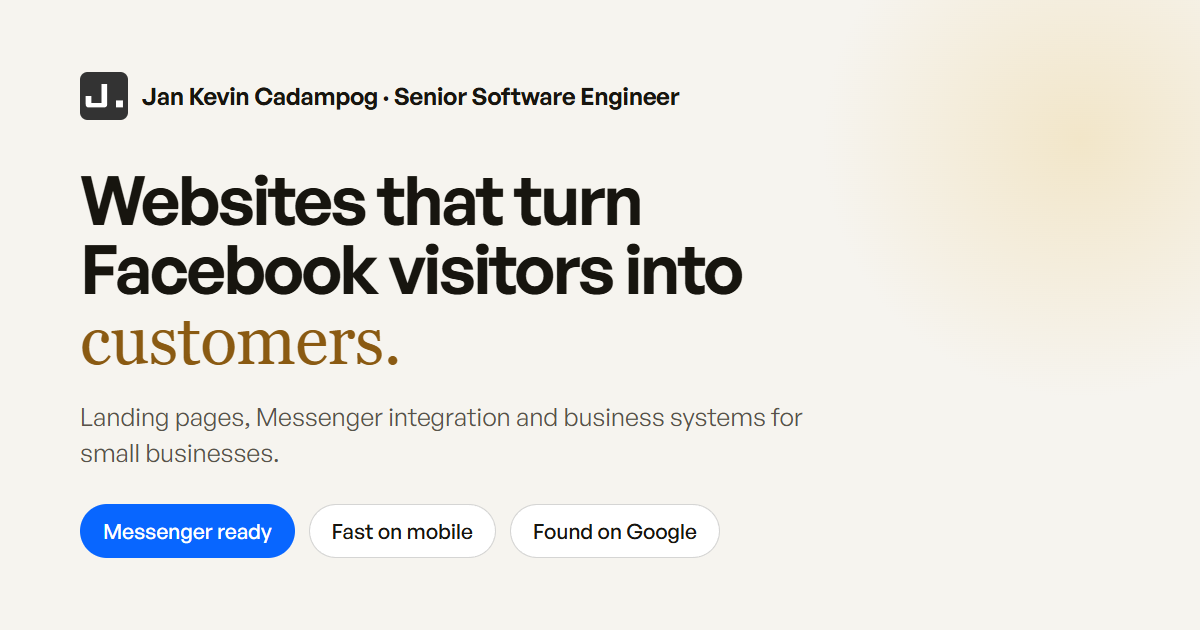
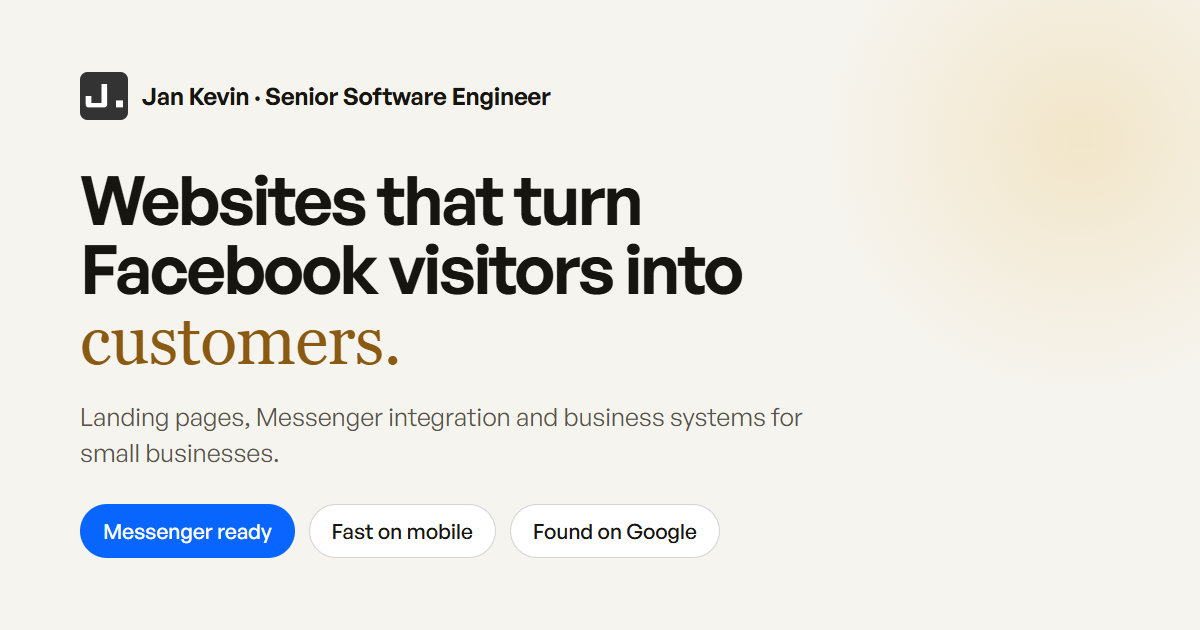
Use the short name everywhere, and keep the sender address out of the secret scan

Changed region(s): [[0.2158, 0.1206, 0.5858, 0.181]]

diff --git a/utils/landing/seo.ts b/utils/landing/seo.ts
@@ -30,16 +30,16 @@ import { BASE, CONTACT, FAQS, PROJECTS, SERVICES } from './content'
  * has to be on the page too.
  */
 export const LANDING_SEO = {
-  title: 'Small Business Websites & Landing Pages | Jan Kevin Cadampog',
+  title: 'Small Business Websites & Landing Pages | Jan Kevin',
   description:
-    'Fast landing pages, Facebook and Messenger integration, booking forms and business systems for small businesses. By Senior Software Engineer Jan Kevin Cadampog.',
+    'Fast landing pages, Facebook and Messenger integration, booking forms and business systems for small businesses. By Jan Kevin, Senior Software Engineer.',
   socialTitle: 'Websites that turn Facebook visitors into customers',
   robots: 'index, follow, max-image-preview:large, max-snippet:-1, max-video-preview:-1',
   ogImage: {
     path: '/images/og-business.png',
     width: 1200,
     height: 630,
-    alt: 'Websites that turn Facebook visitors into customers, by Jan Kevin Cadampog, Senior Software Engineer',
+    alt: 'Websites that turn Facebook visitors into customers, by Jan Kevin, Senior Software Engineer',
   },
   logo: { path: '/images/logo.png', width: 512, height: 512 },
 } as const
@@ -56,7 +56,7 @@ export function landingGraph(base: string) {
         '@type': 'WebSite',
         '@id': id('website'),
         url: `${base}/`,
-        name: 'Jan Kevin Cadampog',
+        name: 'Jan Kevin',
         alternateName: ['JKC', 'iamjkc'],
         inLanguage: 'en',
         publisher: { '@id': id('organization') },
@@ -64,7 +64,7 @@ export function landingGraph(base: string) {
       {
         '@type': 'Organization',
         '@id': id('organization'),
-        name: 'Jan Kevin Cadampog',
+        name: 'Jan Kevin',
         alternateName: 'JKC',
         url: `${base}/`,
         description: LANDING_SEO.description,
@@ -104,7 +104,7 @@ export function landingGraph(base: string) {
       {
         '@type': 'Person',
         '@id': id('person'),
-        name: 'Jan Kevin Cadampog',
+        name: 'Jan Kevin',
         alternateName: 'JKC',
         jobTitle: 'Senior Software Engineer',
         url: `${base}/me/`,

diff --git a/app.vue b/app.vue
@@ -4,7 +4,7 @@ const { siteUrl } = useRuntimeConfig().public
 const route = useRoute()
 
 const DESCRIPTION =
-  'Jan Kevin Cadampog (JKC), Senior Software Engineer in Cebu City. Five years building websites and enterprise systems with .NET and Angular for companies in Japan, New Zealand and the Philippines.'
+  'Jan Kevin (JKC), Senior Software Engineer in Cebu City. Five years building websites and enterprise systems with .NET and Angular for companies in Japan, New Zealand and the Philippines.'
 
 /** Absolute URL for the page being rendered - canonical and og:url need one. */
 const canonical = computed(() => pageUrl(String(siteUrl), route.path))
@@ -13,14 +13,14 @@ const ogImage = computed(() => new URL('/images/main.webp', siteUrl as string).h
 useSeoMeta({
   description: DESCRIPTION,
   ogType: 'website',
-  ogSiteName: 'Jan Kevin Cadampog',
-  ogTitle: 'Jan Kevin Cadampog - Senior Software Engineer',
+  ogSiteName: 'Jan Kevin',
+  ogTitle: 'Jan Kevin - Senior Software Engineer',
   ogDescription: DESCRIPTION,
   ogImage: ogImage,
-  ogImageAlt: 'Jan Kevin Cadampog',
+  ogImageAlt: 'Jan Kevin',
   ogUrl: canonical,
   twitterCard: 'summary_large_image',
-  twitterTitle: 'Jan Kevin Cadampog - Senior Software Engineer',
+  twitterTitle: 'Jan Kevin - Senior Software Engineer',
   twitterDescription: DESCRIPTION,
   twitterImage: ogImage,
 })
@@ -40,7 +40,7 @@ useHead({
           '@context': 'https://schema.org',
           '@type': 'Person',
           '@id': `${String(siteUrl).replace(/\/$/, '')}/#person`,
-          name: 'Jan Kevin Cadampog',
+          name: 'Jan Kevin',
           alternateName: 'JKC',
           url: siteUrl,
           image: ogImage.value,

diff --git a/server/utils/contact-email.ts b/server/utils/contact-email.ts
@@ -32,10 +32,11 @@ const SANS = "-apple-system,BlinkMacSystemFont,'Segoe UI',Roboto,Helvetica,Arial
 const SERIF = "Georgia,'Times New Roman',serif"
 
 /** The name every email is sent under, so the inbox shows a person, not an address. */
-export const SENDER_NAME = 'Jan Kevin Cadampog'
+/** Never the full name: the owner's rule, it is too long. */
+export const SENDER_NAME = 'Jan Kevin'
 
 /**
- * `contact@iamjkc.space` becomes `Jan Kevin Cadampog <contact@iamjkc.space>`.
+ * `hello@example.com` becomes `Jan Kevin <hello@example.com>`.
  * An address that already carries a display name is left alone.
  */
 export function withSenderName(from: string): string {
@@ -420,7 +421,7 @@ export function renderAutoReply(msg: ContactMessage): string {
             <table role="presentation" cellpadding="0" cellspacing="0" border="0">
               <tr>
                 <td width="64" valign="middle" style="width:64px;">
-                  <img src="${escapeHtml(asset(msg.siteUrl, '/images/email/headshot.jpg'))}" width="52" height="52" alt="Jan Kevin Cadampog" style="display:block;width:52px;height:52px;border:0;border-radius:26px;" />
+                  <img src="${escapeHtml(asset(msg.siteUrl, '/images/email/headshot.jpg'))}" width="52" height="52" alt="${SENDER_NAME}" style="display:block;width:52px;height:52px;border:0;border-radius:26px;" />
                 </td>
                 <td valign="middle">
                   <div style="font:600 15px/1.35 ${SANS};color:${INK};">${SENDER_NAME}</div>

diff --git a/components/HeroSection.vue b/components/HeroSection.vue
@@ -191,8 +191,8 @@ onBeforeUnmount(() => {
     <!-- Center stage: name on left, portrait centered -->
     <div class="hero__stage">
       <h1 class="hero__name" data-hero-reveal>
-        <span class="block">Jan&nbsp;Kevin</span>
-        <span class="block italic text-accent">Cadampog</span>
+        <span class="block">Jan</span>
+        <span class="block italic text-accent">Kevin</span>
       </h1>
 
       <!--
@@ -206,7 +206,7 @@ onBeforeUnmount(() => {
         effect now, so this is a picture rather than a control, and it should
         not advertise itself as something to click.
       -->
-      <div class="hero__portrait" role="img" aria-label="Jan Kevin Cadampog" data-hero-reveal>
+      <div class="hero__portrait" role="img" aria-label="Jan Kevin" data-hero-reveal>
         <img src="/images/main.webp" alt="" class="sizer" aria-hidden="true" />
         <div ref="tilesRef" class="tile-grid">
           <div
@@ -355,7 +355,7 @@ onBeforeUnmount(() => {
  * This must stop exactly where the desktop refinements start (min-width:
  * 1024px). It previously ended at 767px, which left 768-1023px running the
  * absolutely-positioned desktop composition without its desktop sizing: the
- * name kept `max-width: 50vw`, so "Cadampog" overflowed its box and printed
+ * name kept `max-width: 50vw`, so the surname line overflowed its box and printed
  * straight over the meta column.
  */
 @media (max-width: 1023px) {

diff --git a/pages/about.vue b/pages/about.vue
@@ -16,16 +16,16 @@ const config = useRuntimeConfig()
 const siteUrl = String(config.public.siteUrl ?? '').replace(/\/$/, '')
 
 const DESCRIPTION =
-  'Jan Kevin Cadampog is a full-stack .NET and Angular developer in Cebu City, Philippines, with five years across RD Pawnshop, Fujitsu and OSL International.'
+  'Jan Kevin is a full-stack .NET and Angular developer in Cebu City, Philippines, with five years across RD Pawnshop, Fujitsu and OSL International.'
 
-useHead({ title: 'About — Jan Kevin Cadampog' })
+useHead({ title: 'About - Jan Kevin' })
 
 useSeoMeta({
   description: DESCRIPTION,
-  ogTitle: 'About — Jan Kevin Cadampog',
+  ogTitle: 'About - Jan Kevin',
   ogDescription: DESCRIPTION,
   ogUrl: `${siteUrl}/about/`,
-  twitterTitle: 'About — Jan Kevin Cadampog',
+  twitterTitle: 'About - Jan Kevin',
   twitterDescription: DESCRIPTION,
 })
 
@@ -67,7 +67,7 @@ const principles = [
 
         <div class="about-lede">
           <p>
-            I&rsquo;m Jan Kevin Cadampog, or JKC. I&rsquo;m a full-stack developer in Cebu City, Philippines, and a
+            I&rsquo;m Jan Kevin, or JKC. I&rsquo;m a full-stack developer in Cebu City, Philippines, and a
             Software Engineer at OSL International, where I build and maintain web platforms for companies in Japan,
             including IBC Auto and Jet Logistics. I work on both sides: the .NET APIs and the Angular front ends.
           </p>

diff --git a/utils/landing/short-name.test.ts b/utils/landing/short-name.test.ts
@@ -1,0 +1,28 @@
+import { readdirSync, readFileSync, statSync } from 'node:fs'
+import { join, relative, resolve } from 'node:path'
+import { describe, expect, it } from 'vitest'
+
+/**
+ * The owner's rule (2026-11-13): the site and its emails say "Jan Kevin",
+ * never the full name. This walks everything a visitor or an email recipient
+ * can see and fails on the surname.
+ */
+const root = resolve(__dirname, '../..')
+const SCANNED = ['app.vue', 'nuxt.config.ts', 'components', 'pages', 'layouts', 'utils/landing', 'server/utils/contact-email.ts', 'server/api', 'public/site.webmanifest']
+
+function files(path: string): string[] {
+  const s = statSync(path, { throwIfNoEntry: false })
+  if (!s) return []
+  if (s.isFile()) return [path]
+  return readdirSync(path).flatMap((name) => files(join(path, name)))
+}
+
+describe('short name', () => {
+  it('never shows the surname anywhere a visitor or recipient can see it', () => {
+    const hits = SCANNED.flatMap((p) => files(join(root, p)))
+      .filter((f) => /\.(vue|ts|webmanifest)$/.test(f) && !f.endsWith('short-name.test.ts'))
+      .filter((f) => /cadampog/i.test(readFileSync(f, 'utf8')))
+      .map((f) => relative(root, f))
+    expect(hits).toEqual([])
+  })
+})

diff --git a/components/landing/Footer.vue b/components/landing/Footer.vue
@@ -7,7 +7,7 @@ import { trackLanding } from '~/composables/useLandingAnalytics'
   <footer class="lp-footer">
     <div class="lp-wrap lp-footer__grid">
       <div>
-        <p class="lp-footer__name">Jan Kevin Cadampog</p>
+        <p class="lp-footer__name">Jan Kevin</p>
         <p class="lp-footer__muted">Senior Software Engineer, based in {{ BASE.city }}, {{ BASE.country }}</p>
         <p class="lp-footer__muted lp-footer__areas">Websites and business systems for small businesses, wherever they are.</p>
       </div>
@@ -21,7 +21,7 @@ import { trackLanding } from '~/composables/useLandingAnalytics'
       </nav>
     </div>
     <div class="lp-wrap">
-      <p class="lp-footer__fine">&copy; 2026 Jan Kevin Cadampog. This page counts visits with Google Analytics. No ads, and no advertising cookies.</p>
+      <p class="lp-footer__fine">&copy; 2026 Jan Kevin. This page counts visits with Google Analytics. No ads, and no advertising cookies.</p>
     </div>
   </footer>
 </template>

diff --git a/nuxt.config.ts b/nuxt.config.ts
@@ -31,13 +31,13 @@ export default defineNuxtConfig({
     head: {
       htmlAttrs: { lang: 'en' },
       // Searchers look for the person, not the initials.
-      title: 'Jan Kevin Cadampog - Senior Software Engineer',
+      title: 'Jan Kevin - Senior Software Engineer',
       meta: [
         { charset: 'utf-8' },
         { name: 'viewport', content: 'width=device-width, initial-scale=1' },
         // Keyed so the landing layout can replace it with light/dark values.
         { key: 'theme-color', name: 'theme-color', content: '#0a0a0a' },
-        { name: 'author', content: 'Jan Kevin Cadampog' },
+        { name: 'author', content: 'Jan Kevin' },
       ],
       link: [
         /*

diff --git a/components/landing/Header.vue b/components/landing/Header.vue
@@ -32,7 +32,7 @@ const links = [
           <path fill="#fff" d="M34 19h9v33a4 4 0 0 1-4 4H13a4 4 0 0 1-4-4V38h9v11h16Z" />
           <rect x="57" y="45" width="11" height="11" fill="#fff" />
         </svg>
-        <span class="lp-brand__name">Jan Kevin Cadampog</span>
+        <span class="lp-brand__name">Jan Kevin</span>
       </a>
 
       <nav class="lp-header__nav" aria-label="Sections">
@@ -99,7 +99,7 @@ const links = [
 
 /* Too narrow for the name next to the switch and the button: keep it for
    screen readers, which use it as the link's name. */
-@media (max-width: 519px) {
+@media (max-width: 339px) {
   .lp-brand__name {
     position: absolute;
     width: 1px;

diff --git a/pages/index.vue b/pages/index.vue
@@ -204,7 +204,7 @@ const more = SERVICES.filter((s) => !s.featured)
     <!-- About, short -->
     <section class="lp-section lp-band" aria-labelledby="about-title">
       <div class="lp-wrap lp-about">
-        <img src="/images/main.webp" alt="Jan Kevin Cadampog" width="500" height="500" loading="lazy" decoding="async" class="lp-about__photo" />
+        <img src="/images/main.webp" alt="Jan Kevin" width="500" height="500" loading="lazy" decoding="async" class="lp-about__photo" />
         <div>
           <p class="lp-eyebrow">Who you'll work with</p>
           <h2 id="about-title" class="lp-h2">Hi, I'm Jan Kevin.</h2>

diff --git a/components/CraftRevealSection.vue b/components/CraftRevealSection.vue
@@ -130,7 +130,7 @@ onBeforeUnmount(() => {
         <div ref="revealRef" class="craft-reveal__image">
           <NuxtImg
             src="/images/me.jpg"
-            alt="Jan Kevin Cadampog"
+            alt="Jan Kevin"
             class="block w-full h-full object-cover"
           />
         </div>
@@ -158,7 +158,7 @@ onBeforeUnmount(() => {
       <div class="craft-reveal__mobile-image">
         <NuxtImg
           src="/images/me.jpg"
-          alt="Jan Kevin Cadampog"
+          alt="Jan Kevin"
           class="w-full h-full object-cover"
         />
       </div>

diff --git a/server/utils/contact-email.test.ts b/server/utils/contact-email.test.ts
@@ -244,8 +244,8 @@ describe('business enquiries', () => {
 
 describe('branding', () => {
   it('sends under a person, not a bare address', () => {
-    expect(withSenderName('contact@iamjkc.space')).toBe('Jan Kevin Cadampog <contact@iamjkc.space>')
-    expect(withSenderName('JKC <contact@iamjkc.space>')).toBe('JKC <contact@iamjkc.space>')
+    expect(withSenderName('hello@example.com')).toBe('Jan Kevin <hello@example.com>')
+    expect(withSenderName('JKC <hello@example.com>')).toBe('JKC <hello@example.com>')
     expect(withSenderName('')).toBe('')
   })
 
